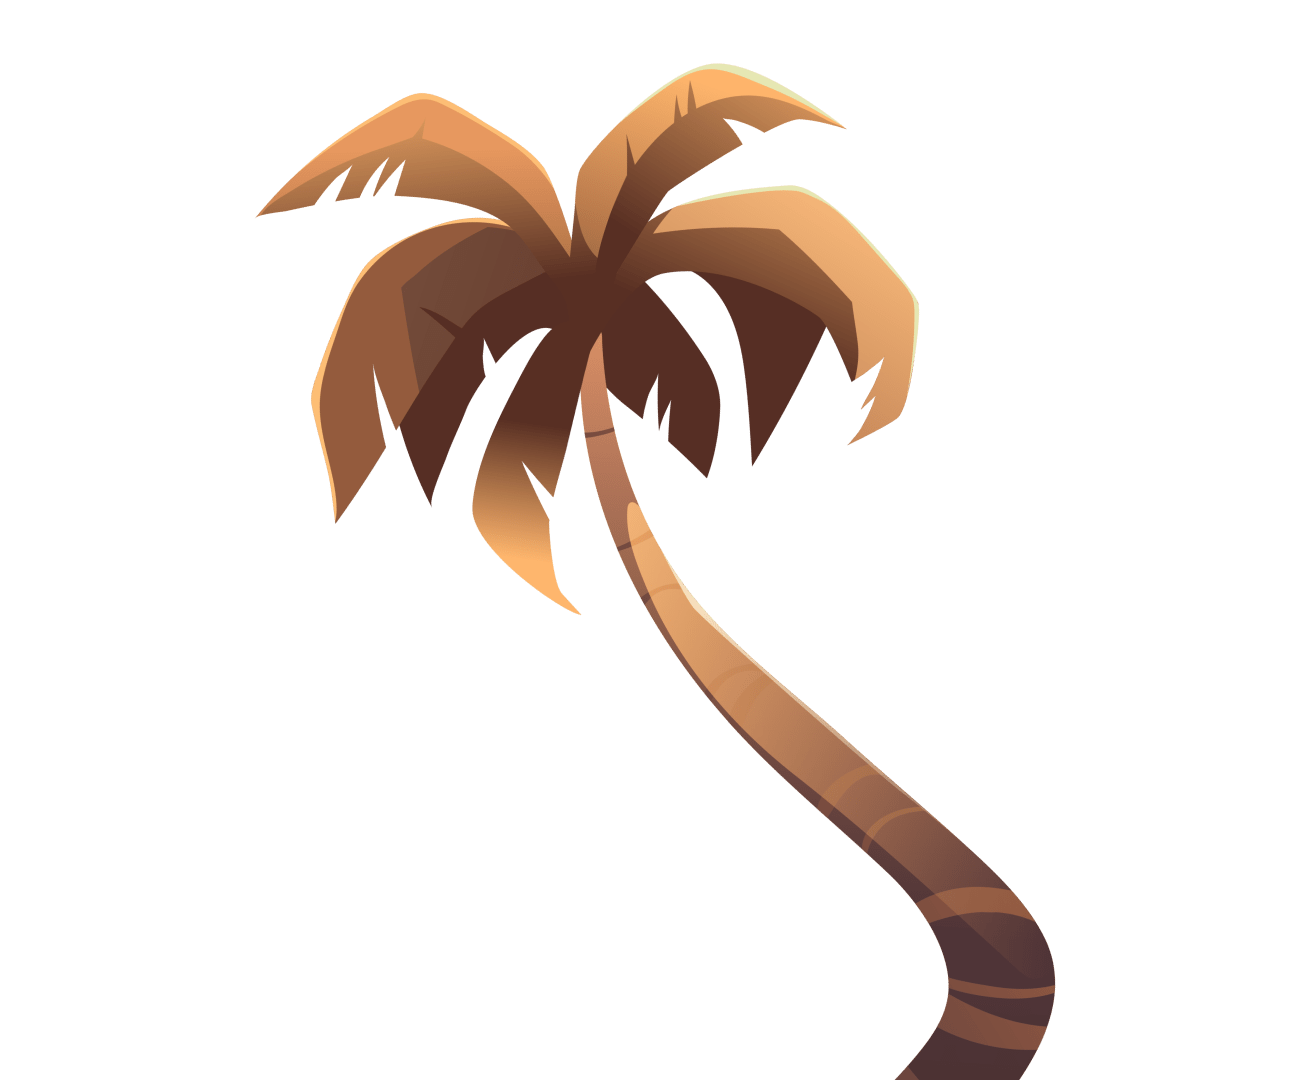
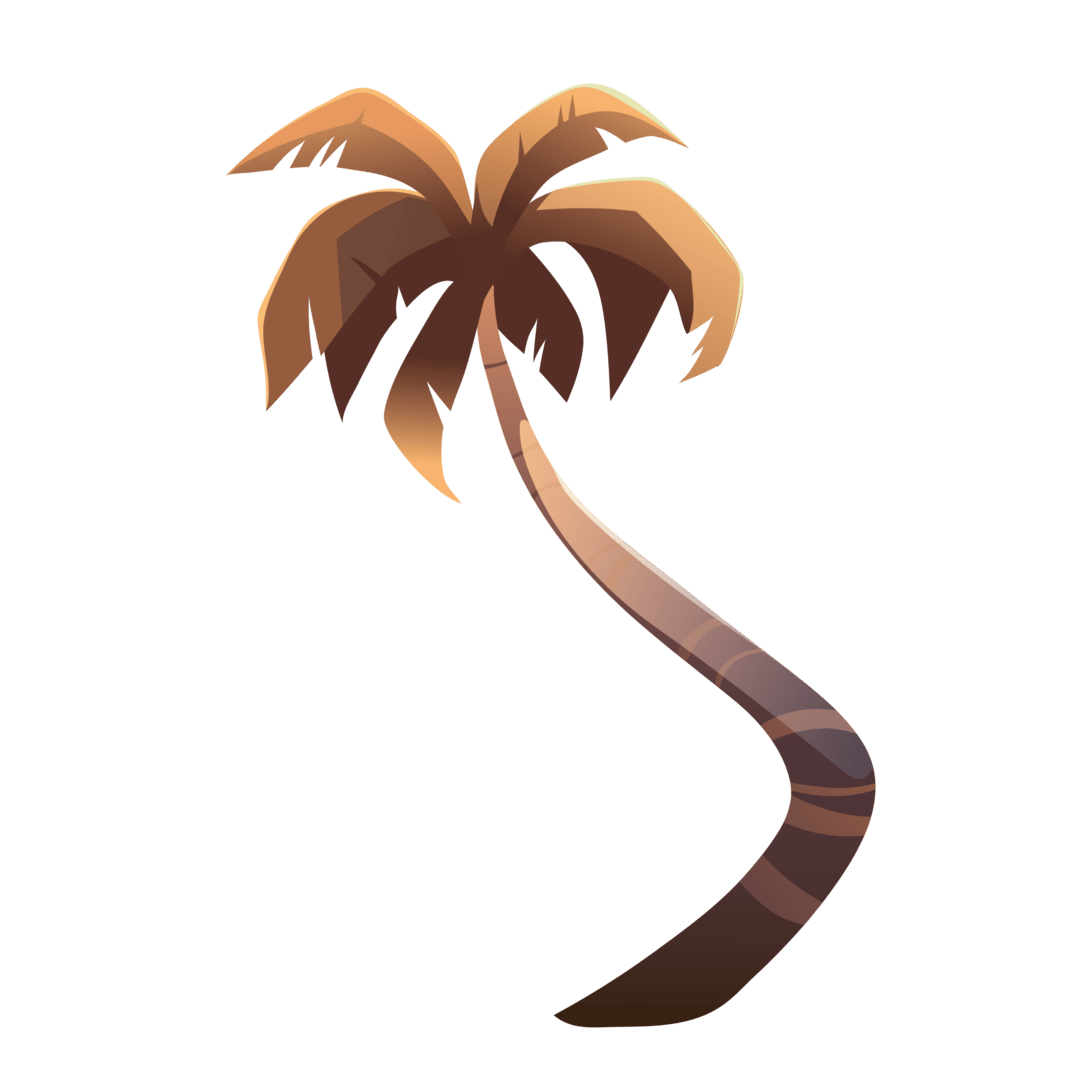
Bug Fixes

Changed region(s): [[0.1833, 0.0611, 0.825, 1.0], [0.4278, 0.55, 0.4583, 0.5806]]

diff --git a/frontend/src/modules/Module_2.js b/frontend/src/modules/Module_2.js
@@ -1,4 +1,4 @@
-import { useContext, useEffect, useState } from "react";
+import { useContext, useEffect, useRef, useState } from "react";
 import { makeStyles } from "@material-ui/core";
 import { useHistory } from "react-router-dom";
 import { score } from "../services/v1";
@@ -47,23 +47,23 @@ const useStyles = makeStyles({
         filter: "drop-shadow(0.33vh 0.66vh 1.2vh black)",
         transform: "scale(0)",
         top: "40vh",
-        left: "14vw",
+        left: "17vw",
         height: "120.52vh",
         width: "68vw"
     },
     palmWrapper: {
         position: "absolute",
         overflow: "hidden",
-        transform: "scale(0)",
-        top: "40vh",
+        top: "-9vh",
         left: "17vw",
         height: "120.52vh",
         width: "68vw"
     },
     palm: {
         filter: "drop-shadow(0.33vh 0.66vh 1.2vh black)",
+        transform: "translateX(-816vw)",
         height: "120.52vh",
-        width: "1428vw"
+        width: "1564vw"
     },
     instructor: {
         position: "absolute",
@@ -198,6 +198,8 @@ const Module_2 = () => {
 
     const history = useHistory();
 
+    const closeRef = useRef();
+
     const timer = useTimer();
 
     const [showBGAnimations, setBGAnimation] = useState(false);
@@ -287,13 +289,6 @@ const Module_2 = () => {
             .add({
                 targets: "#palmAlt",
                 scale: [0, 1],
-                top: "-18vh",
-                easing: "easeOutQuint",
-                duration: 2000
-            }, "-=2000")
-            .add({
-                targets: "#palmWrapper",
-                scale: [0, 1],
                 top: "-9vh",
                 easing: "easeOutQuint",
                 duration: 2000
@@ -309,19 +304,17 @@ const Module_2 = () => {
                 top: "4vh",
                 easing: "easeOutQuint",
                 duration: 2000,
-                complete: handleRestart
+                complete: () => {
+                    $("#palmAlt, #palmWrapper").toggle();
+                    setTimeout(handleRestart, 400);
+                }
             }, "-=2000")
     }
 
     const handleClose = () => {
+        closeRef.current = true;
+
         if (isAnimating) {
-            anime({
-                targets: "#speech, #shell2, #shell2Alt, #label, #labelAlt",
-                opacity: 0,
-                duration: 1
-            });
-        }
-        else {
             anime({
                 targets: "#speech",
                 scale: [1, 0],
@@ -333,6 +326,13 @@ const Module_2 = () => {
                 rotateY: ["0deg", "-90deg"],
                 easing: "easeInQuint",
                 duration: 2000
+            });
+        }
+        else {
+            anime({
+                targets: "#speech, #shell2, #shell2Alt, #label, #labelAlt",
+                opacity: 0,
+                duration: 1
             });
         }
 
@@ -459,7 +459,7 @@ const Module_2 = () => {
     const handleResponse = (flag) => () => {
         score("tree-shaking", {
             trial_number: trial,
-            shells: shells.self + shells.partner,
+            shell: shells.self + shells.partner,
             shared_shell: shells.partner,
             response: flag,
             trial_response_time: timer.getElapsedRunningTime()
@@ -601,7 +601,7 @@ const Module_2 = () => {
                     duration: 2000
                 });
                 anime({
-                    targets: "#palmWrapper, #palmAlt",
+                    targets: "#palmWrapper",
                     scale: [1, 0],
                     top: "40vh",
                     easing: "easeInQuint",
@@ -625,35 +625,50 @@ const Module_2 = () => {
             partner: anime.random(1, 20)
         });
         setTrial(trial + 1);
-        setAnimation(true);
+        setAnimation(false);
 
         anime({
-            targets: "#palm",
-            translateX: ["68vw", "-1360vw"],
-            loop: 0,
-            direction: "alternate",
-            easing: "steps(21)",
-            duration: 700,
+            targets: "#test",
+            translateX: [
+                {
+                    value: ["-748vw", "-1496vw"],
+                    duration: 220,
+                    easing: "steps(11)",
+                },
+                {
+                    value: ["-1496vw", "0vw"],
+                    duration: 110,
+                    easing: "steps(22)",
+                },
+                {
+                    value: ["0vw", "-748vw"],
+                    duration: 220,
+                    easing: "steps(11)",
+                }
+            ],
+            loop: 4,
             complete: () => {
-                setAnimation(false);
+                setAnimation(true);
 
-                anime({
-                    targets: "#speech",
-                    scale: [0, 1],
-                    easing: "easeOutQuint",
-                    delay: 500,
-                    duration: 2000
-                });
-                anime({
-                    targets: "#shell2, #shell2Alt, #label, #labelAlt",
-                    rotateY: ["-90deg", "0deg"],
-                    easing: "easeOutQuint",
-                    delay: 750,
-                    duration: 2000,
-                    complete: () => {
-                        timer.start();
-                    }
-                });
+                if (!closeRef.current) {
+                    anime({
+                        targets: "#speech",
+                        scale: [0, 1],
+                        easing: "easeOutQuint",
+                        delay: 500,
+                        duration: 2000
+                    });
+                    anime({
+                        targets: "#shell2, #shell2Alt, #label, #labelAlt",
+                        rotateY: ["-90deg", "0deg"],
+                        easing: "easeOutQuint",
+                        delay: 750,
+                        duration: 2000,
+                        complete: () => {
+                            timer.start();
+                        }
+                    });
+                }
             }
         });
     }
@@ -670,9 +685,9 @@ const Module_2 = () => {
         <CIClose className={cls.close} id="close" onClick={handleClose} />
         <CIMusic className={cls.music} id="music" />
         <CIShell className={cls.shell} id="shell" />
-        {/* <div className={cls.palmWrapper} id="palmWrapper">
+        <div className={cls.palmWrapper} style={{ display: "none" }} id="palmWrapper">
             <img className={cls.palm} id="palm" src={require("../assets/modules/Palm.png")} />
-        </div> */}
+        </div>
         <div className={cls.speech} id="speech">
             <CILabel>
                 {`You have gathered ${shells.self + shells.partner} shells from this search.`}

diff --git a/frontend/src/containers/UserDetails.js b/frontend/src/containers/UserDetails.js
@@ -161,6 +161,8 @@ const UserDetails = () => {
     const handleNext = () => {
         if (details.nationality.length === 0)
             toast.error("The Nationality cannot be empty.");
+        if (details.gender.length === 0)
+            toast.error("The Gender cannot be empty.");
         else if (!validateZipCode(details.zipcode))
             toast.error("The Zipcode is invalid.");
         else if (!details.birthDay)
@@ -206,7 +208,7 @@ const UserDetails = () => {
                         });
                 })
                 .catch(() => {
-                    toast.error("The Access Code is invalid.");
+                    toast.error("Something went wrong.");
                 });
         }
     }

diff --git a/frontend/src/containers/LandingPage.js b/frontend/src/containers/LandingPage.js
@@ -316,7 +316,7 @@ const LandingPage = () => {
             handleAccess(text)
                 .then(handleSave)
                 .catch(() => {
-                    toast.error("The Access Code is invalid.")
+                    toast.error("The Access Code is invalid.");
                 });
         }
     }

diff --git a/frontend/src/containers/AvatarPage.js b/frontend/src/containers/AvatarPage.js
@@ -279,7 +279,7 @@ const Avatar = () => {
                     });
             })
             .catch(() => {
-                toast.error("The Access Code is invalid.")
+                toast.error("Something went wrong.");
             });
     }
 
